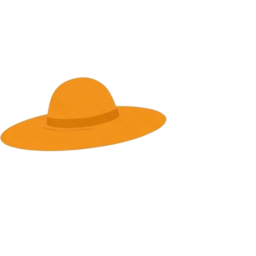
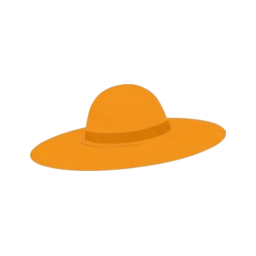
Chat: sombrero centrado, sin etiqueta «IA» y lenguaje formal
- ia-sombrero.png recortado a la parte visible (la imagen original tenía
  píxeles casi transparentes a la derecha que lo descentraban)
- Se quita la etiqueta «IA» del círculo
- Fuera los «Klk»: saludos neutros en el chat y en el registro, y la IA
  tiene instrucciones de no usar jerga ni expresiones coloquiales

Changed region(s): [[0.0, 0.2812, 0.9062, 0.6875]]

diff --git a/app/RamoncitoChat.tsx b/app/RamoncitoChat.tsx
@@ -98,7 +98,6 @@ export default function RamoncitoChat() {
         aria-label={open ? "Cerrar el chat de Ramoncito" : "Hablar con Ramoncito (IA)"}
       >
         <Image src="/ia-sombrero.png" alt="" width={256} height={256} />
-        {!open && <span className="rcFabTag">IA</span>}
       </button>
 
       {open && (
@@ -126,7 +125,7 @@ export default function RamoncitoChat() {
             {access === "guest" && (
               <div className="rcNote">
                 <p>
-                  <b>¡Klk!</b> Soy Ramoncito. Para darte consejos de <b>tu</b> conuco necesito saber dónde está.
+                  Hola, soy Ramoncito. Para darte consejos sobre <b>tu</b> conuco necesito saber dónde está.
                 </p>
                 <p>Entra con Google y regístralo: toma un minuto y tus datos solo los ves tú.</p>
                 <Link href="/mi-conuco" className="cta rcCta" onClick={() => setOpen(false)}>
@@ -150,7 +149,7 @@ export default function RamoncitoChat() {
                   <>
                     <div className="bubbleMsg bot">
                       <p>
-                        ¡Klk! Pregúntame lo que quieras de tu conuco: qué sembrar, cuándo regar o cómo cuidar tu tierra.
+                        Hola. Puedes preguntarme sobre tu conuco: qué sembrar, cuándo regar o cómo cuidar tu tierra.
                       </p>
                     </div>
                     <div className="rcChips">

diff --git a/app/api/ramoncito/route.ts b/app/api/ramoncito/route.ts
@@ -28,7 +28,7 @@ function allowed(userId: string) {
 
 const SYSTEM = `Eres Ramoncito, el asistente agrícola de The Conuco, una herramienta para agricultores del Cibao (República Dominicana) hecha con datos de la NASA.
 Reglas:
-- Habla en español sencillo y cercano, como un buen vecino que sabe de agricultura. Frases cortas. Nada de palabras técnicas sin explicarlas.
+- Habla en español claro, sencillo y respetuoso. Nada de jerga, saludos informales ni expresiones coloquiales (no uses «klk», «mano», «compai» y similares). Frases cortas. Nada de palabras técnicas sin explicarlas.
 - Usa SOLO los datos del CONTEXTO para cifras, meses y cultivos. Si algo no está en el contexto, dilo con honestidad ("eso no lo tengo en mis datos").
 - Los datos describen una zona de unos 11 km, no la finca exacta: recuérdalo cuando sea importante.
 - No des dosis ni nombres comerciales de químicos o pesticidas: recomienda consultar a un técnico agrícola o al Ministerio de Agricultura.

diff --git a/app/mi-conuco/page.tsx b/app/mi-conuco/page.tsx
@@ -63,7 +63,7 @@ export default async function MiConucoPage({ searchParams }: { searchParams: Pro
       ) : (
         <section className="mcCard">
           <p className="eyebrowMini">Paso 1 de 1</p>
-          <h1>{firstName ? `¡Klk, ${firstName}! ` : ""}Cuéntanos de tu conuco</h1>
+          <h1>{firstName ? `Hola, ${firstName}. ` : ""}Cuéntanos sobre tu conuco</h1>
           <p className="mcLead">
             Con esto Ramoncito te da consejos para tu tierra exacta. Lo que escribas aquí <b>solo lo ves tú</b>.
           </p>

diff --git a/app/globals.css b/app/globals.css
@@ -3074,19 +3074,6 @@ button.cta {
   object-fit: contain;
 }
 
-.rcFabTag {
-  position: absolute;
-  top: -4px;
-  right: -6px;
-  padding: 2px 7px;
-  font-size: 0.7rem;
-  font-weight: 800;
-  color: var(--green-deep);
-  background: var(--sun);
-  border: 2px solid var(--green-deep);
-  border-radius: 999px;
-}
-
 .rcPanel {
   position: fixed;
   right: clamp(14px, 3vw, 28px);
